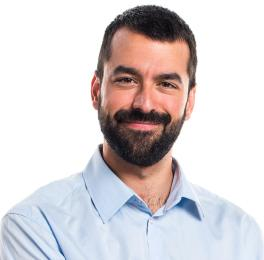
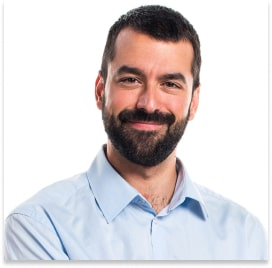
team-all

diff --git a/index.html b/index.html
@@ -277,13 +277,36 @@
           <h2 class="section-title team-title">Our Team</h2>
           <ul class="team-list list">
             <li class="team-item">
-              <img
-                class="team-img"
-                src="./images/our-team/mark-guerrero.jpg"
-                alt="Mark Guerrero"
-                width="264"
-                height="260"
-              />
+              <picture>
+                <source
+                  srcset="
+                    ./images/our-team/mark-guerrero.jpg    1x,
+                    ./images/our-team/mark-guerrero@2x.jpg 2x
+                  "
+                  media="(min-width: 1158px)"
+                />
+                <source
+                  srcset="
+                    ./images/our-team/mark-guerrero.jpg    1x,
+                    ./images/our-team/mark-guerrero@2x.jpg 2x
+                  "
+                  media="(min-width: 768px)"
+                />
+                <source
+                  srcset="
+                    ./images/our-team/mark-guerrero.jpg    1x,
+                    ./images/our-team/mark-guerrero@2x.jpg 2x
+                  "
+                  media="(max-width: 767px)"
+                />
+                <img
+                  class="team-img"
+                  src="./images/our-team/mark-guerrero.jpg"
+                  alt="Mark Guerrero"
+                  width="264"
+                  height="260"
+                />
+              </picture>
               <div class="team-item-container">
                 <h3 class="team-subtitle subtitle">Mark Guerrero</h3>
                 <p class="team-text">Product Designer</p>
@@ -345,13 +368,36 @@
             </li>
 
             <li class="team-item">
-              <img
-                class="team-img"
-                src="./images/our-team/tom-ford.jpg"
-                alt="Tom Ford"
-                width="264"
-                height="260"
-              />
+              <picture>
+                <source
+                  srcset="
+                    ./images/our-team/tom-ford.jpg    1x,
+                    ./images/our-team/tom-ford@2x.jpg 2x
+                  "
+                  media="(min-width: 1158px)"
+                />
+                <source
+                  srcset="
+                    ./images/our-team/tom-ford.jpg    1x,
+                    ./images/our-team/tom-ford@2x.jpg 2x
+                  "
+                  media="(min-width: 768px)"
+                />
+                <source
+                  srcset="
+                    ./images/our-team/tom-ford.jpg    1x,
+                    ./images/our-team/tom-ford@2x.jpg 2x
+                  "
+                  media="(max-width: 767px)"
+                />
+                <img
+                  class="team-img"
+                  src="./images/our-team/tom-ford.jpg"
+                  alt="Tom Ford"
+                  width="264"
+                  height="260"
+                />
+              </picture>
               <div class="team-item-container">
                 <h3 class="team-subtitle subtitle">Tom Ford</h3>
                 <p class="team-text">Frontend Developer</p>
@@ -413,13 +459,36 @@
             </li>
 
             <li class="team-item">
-              <img
-                class="team-img"
-                src="./images/our-team/camila-garcia.jpg"
-                alt="Camila Garcia"
-                width="264"
-                height="260"
-              />
+              <picture>
+                <source
+                  srcset="
+                    ./images/our-team/camila-garcia.jpg    1x,
+                    ./images/our-team/camila-garcia@2x.jpg 2x
+                  "
+                  media="(min-width: 1158px)"
+                />
+                <source
+                  srcset="
+                    ./images/our-team/camila-garcia.jpg    1x,
+                    ./images/our-team/camila-garcia@2x.jpg 2x
+                  "
+                  media="(min-width: 768px)"
+                />
+                <source
+                  srcset="
+                    ./images/our-team/camila-garcia.jpg    1x,
+                    ./images/our-team/camila-garcia@2x.jpg 2x
+                  "
+                  media="(max-width: 767px)"
+                />
+                <img
+                  class="team-img"
+                  src="./images/our-team/camila-garcia.jpg"
+                  alt="Camila Garcia"
+                  width="264"
+                  height="260"
+                />
+              </picture>
               <div class="team-item-container">
                 <h3 class="team-subtitle subtitle">Camila Garcia</h3>
                 <p class="team-text">Marketing</p>
@@ -481,13 +550,37 @@
             </li>
 
             <li class="team-item">
-              <img
-                class="team-img"
-                src="./images/our-team/daniel-wilson.jpg"
-                alt="Daniel Wilson"
-                width="264"
-                height="260"
-              />
+              <picture>
+                <source
+                  srcset="
+                    ./images/our-team/daniel-wilson.jpg    1x,
+                    ./images/our-team/daniel-wilson@2x.jpg 2x
+                  "
+                  media="(min-width: 1158px)"
+                />
+                <source
+                  srcset="
+                    ./images/our-team/daniel-wilson.jpg    1x,
+                    ./images/our-team/daniel-wilson@2x.jpg 2x
+                  "
+                  media="(min-width: 768px)"
+                />
+                <source
+                  srcset="
+                    ./images/our-team/daniel-wilson.jpg    1x,
+                    ./images/our-team/daniel-wilson@2x.jpg 2x
+                  "
+                  media="(max-width: 767px)"
+                />
+
+                <img
+                  class="team-img"
+                  src="./images/our-team/daniel-wilson.jpg"
+                  alt="Daniel Wilson"
+                  width="264"
+                  height="260"
+                />
+              </picture>
               <div class="team-item-container">
                 <h3 class="team-subtitle subtitle">Daniel Wilson</h3>
                 <p class="team-text">UI Designer</p>
